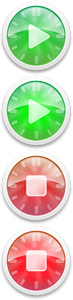
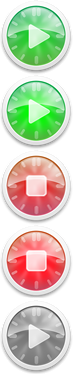
Fixed initial table and disabled columns are still marked after reload of table in export extension. Buzzer only starts recording when a project and an event is selected.

diff --git a/core/js/main.js b/core/js/main.js
@@ -397,17 +397,26 @@ function buzzer_preselect(subject,id,name,kndID,kndName) {
         case "pct":
             selected_knd = kndID;
             selected_pct = id;
+            $.post("processor.php", { axAction: "saveBuzzerPreselection", project:id});
             $("#sel_knd").html(kndName);
             $("#sel_pct").html(name);
             $("#sel_knd").removeClass("none");
         break;
         case "evt":
             selected_evt = id;
+            $.post("processor.php", { axAction: "saveBuzzerPreselection", event:id});
             $("#sel_evt").html(name);
         break;
     }
     $('#'+subject+'>table>tbody>tr>td>a.preselect>img').attr('src','../skins/'+skin+'/grfx/preselect_off.png');
     $('#'+subject+'>table>tbody>tr>td>a.preselect#ps'+id+'>img').attr('src','../skins/'+skin+'/grfx/preselect_on.png');
+    
+    if (selected_knd && selected_pct && selected_evt) {
+      $('#buzzer').click(function(){
+        buzzer();
+      });
+      $('#buzzer').removeClass('disabled');
+    }
 }
 
 // ----------------------------------------------------------------------------------------

diff --git a/core/skins/standard/buzzer.css b/core/skins/standard/buzzer.css
@@ -7,7 +7,7 @@
     overflow: hidden;
 }
 
-#buzzer a {
+#buzzer div {
     display: block;
     background: url(grfx/g3_buzzer.png) no-repeat 0 0px;
     width: 75px;
@@ -15,16 +15,23 @@
     text-indent: -1000px;
 }
 
-#buzzer a:hover {    
+#buzzer div:hover {    
+    cursor: pointer;
     background: url(grfx/g3_buzzer.png) no-repeat 0 -75px;
 }
 
-#buzzer.act a {
+#buzzer.act div {
     background: url(grfx/g3_buzzer.png) no-repeat 0 -150px;
 }
 
-#buzzer.act a:hover {
+#buzzer.act div:hover {
+    cursor: pointer;
     background: url(grfx/g3_buzzer.png) no-repeat 0 -225px;
+}
+
+#buzzer.disabled div, #buzzer.disabled div:hover {
+    cursor: auto;
+    background: url(grfx/g3_buzzer.png) no-repeat 0 -300px;
 }
 
 #noclick {

diff --git a/core/js/init.js b/core/js/init.js
@@ -77,10 +77,14 @@ $(document).ready(function() {
     $('#main_prefs_button').click(function(){
         floaterShow("floaters.php","prefs",0,0,450,300);
     });
+
     
-    $('#buzzer').click(function(){
+    if (selected_knd && selected_pct && selected_evt) {
+      $('#buzzer').click(function(){
         buzzer();
-    });
+      });
+      $('#buzzer').removeClass('disabled');
+    }
  
     n_uhr();
     

diff --git a/core/extensions/ki_export/init.php b/core/extensions/ki_export/init.php
@@ -32,7 +32,10 @@ $tpl->display('panel.tpl');
 // ==========================
 $total = intervallApos(get_zef_time($in,$out,null,array($kga['customer']['knd_ID']),null));
 
-$arr_zef = xp_get_arr($in,$out,null,array($kga['customer']['knd_ID']),null);
+if (isset($kga['customer']))
+  $arr_zef = xp_get_arr($in,$out,null,array($kga['customer']['knd_ID']));
+else
+  $arr_zef = xp_get_arr($in,$out,array($kga['usr']['usr_ID']));
 
 if (count($arr_zef)>0) {
     $tpl->assign('arr_data', $arr_zef);
@@ -41,25 +44,36 @@ if (count($arr_zef)>0) {
 }
 $tpl->assign('total', $total);
 
-$ann = xp_get_arr_usr($in,$out,null,array($kga['customer']['knd_ID']));
+if (isset($kga['customer']))
+  $ann = xp_get_arr_usr($in,$out,null,array($kga['customer']['knd_ID']));
+else
+  $ann = xp_get_arr_knd($in,$out,array($kga['usr']['usr_ID']));
 $ann_new = intervallApos($ann);
 $tpl->assign('usr_ann',$ann_new);
 
-$ann = xp_get_arr_knd($in,$out,null,array($kga['customer']['knd_ID']));
+if (isset($kga['customer']))
+  $ann = xp_get_arr_knd($in,$out,null,array($kga['customer']['knd_ID']));
+else
+  $ann = xp_get_arr_knd($in,$out,array($kga['usr']['usr_ID']));
 $ann_new = intervallApos($ann);
 $tpl->assign('knd_ann',$ann_new);
 
-$ann = xp_get_arr_pct($in,$out,null,array($kga['customer']['knd_ID']));
+if (isset($kga['customer']))
+  $ann = xp_get_arr_pct($in,$out,null,array($kga['customer']['knd_ID']));
+else
+  $ann = xp_get_arr_pct($in,$out,array($kga['usr']['usr_ID']));
 $ann_new = intervallApos($ann);
 $tpl->assign('pct_ann',$ann_new);
 
-$ann = xp_get_arr_evt($in,$out,null,array($kga['customer']['knd_ID']));
+if (isset($kga['customer']))
+  $ann = xp_get_arr_evt($in,$out,null,array($kga['customer']['knd_ID']));
+else
+  $ann = xp_get_arr_evt($in,$out,array($kga['usr']['usr_ID']));
 $ann_new = intervallApos($ann);
 $tpl->assign('evt_ann',$ann_new);
 
-$disabled_columns = xp_get_disabled_headers($kga['usr']['usr_ID']);
-
-$tpl->assign('disabled_columns',$disabled_columns);
+if (isset($kga['usr']))
+  $tpl->assign('disabled_columns',xp_get_disabled_headers($kga['usr']['usr_ID']));
 
 $tpl->assign('table_display', $tpl->fetch("table.tpl"));
 

diff --git a/core/core/kimai.php b/core/core/kimai.php
@@ -271,29 +271,26 @@ else
 
 $tpl->assign('lang_checkUsername', $kga['lang']['checkUsername']);
 
-if (isset($kga['customer']))
-  $last_pct = null;
-else {
-  $lastZefRecord = zef_get_data(0);
-  logfile($lastZefRecord['zef_pctID']);
-  $last_pct = pct_get_data($lastZefRecord['zef_pctID']);
-}
 
-if ($last_pct) {
-    $tpl->assign('pct_data', $last_pct);
-    $tpl->assign('knd_data', knd_get_data($last_pct['pct_kndID']));
-    $tpl->assign('evt_data', evt_get_data($kga['conf']['lastEvent']));
-} else {
-    $knd_data['knd_ID'] = 1;
-    $pct_data['pct_ID'] = 1;
-    $evt_data['evt_ID'] = 1;
-    $knd_data['knd_name'] = $kga['lang']['testKND'];
-    $pct_data['pct_name'] = $kga['lang']['testPCT'];
-    $evt_data['evt_name'] = $kga['lang']['testEVT'];
-    $tpl->assign('knd_data', $knd_data);
-    $tpl->assign('pct_data', $pct_data);
-    $tpl->assign('evt_data', $evt_data);
+$knd_data = array('knd_ID'=>false,'knd_name'=>'');
+$pct_data = array('pct_ID'=>false,'pct_name'=>'');
+$evt_data = array('evt_ID'=>false,'evt_name'=>'');
+
+if (!isset($kga['customer'])) {
+  //$lastZefRecord = zef_get_data(false);
+  $last_pct = pct_get_data($kga['conf']['lastProject']);
+  $last_evt = evt_get_data($kga['conf']['lastEvent']);
+  if (!$last_pct['pct_trash']) {
+    $pct_data = $last_pct;
+    $knd_data = knd_get_data($last_pct['pct_kndID']);
+  }
+  if (!$last_evt['evt_trash'])
+    $evt_data = $last_evt;    
 }
+$tpl->assign('knd_data', $knd_data);
+$tpl->assign('pct_data', $pct_data);
+$tpl->assign('evt_data', $evt_data);
+
 
 // =========================================
 // = INCLUDE EXTENSION PHP FILE            =

diff --git a/core/includes/db_layer_mysql.php b/core/includes/db_layer_mysql.php
@@ -1316,6 +1316,8 @@ function usr_edit($usr_id, $data) {
     $values ['usr_trash']         = MySQL::SQLValue($new_array ['usr_trash']        , MySQL::SQLVALUE_NUMBER  );
     $values ['usr_active']        = MySQL::SQLValue($new_array ['usr_active']       , MySQL::SQLVALUE_NUMBER  );
     $values ['noFading']          = MySQL::SQLValue($new_array ['noFading']         , MySQL::SQLVALUE_NUMBER  );
+    $values ['lastProject']       = MySQL::SQLValue($new_array ['lastProject']      , MySQL::SQLVALUE_NUMBER  );
+    $values ['lastEvent']         = MySQL::SQLValue($new_array ['lastEvent']        , MySQL::SQLVALUE_NUMBER  );
 
     $filter ['usr_ID']            = MySQL::SQLValue($usr_id, MySQL::SQLVALUE_NUMBER);
     

diff --git a/core/core/processor.php b/core/core/processor.php
@@ -35,6 +35,21 @@ switch ($axAction) {
     break;
 
 
+
+
+    case 'saveBuzzerPreselection':
+      if (!isset($kga['usr'])) return;
+
+      $data= array();
+      if (isset($_REQUEST['project']))
+        $data['lastProject'] = $_REQUEST['project'];
+      if (isset($_REQUEST['event']))
+        $data['lastEvent']   = $_REQUEST['event'];
+
+      usr_edit($kga['usr']['usr_ID'],$data);
+    break;
+
+
     // ================================
     // = write user preferences to DB =
     // ================================

diff --git a/core/includes/db_layer_pdo.php b/core/includes/db_layer_pdo.php
@@ -1167,7 +1167,9 @@ function usr_edit($usr_id, $data) {
     pct_comment_flag = ?,
     showIDs = ?,
     lang = ? ,
-    noFading = ?
+    noFading = ?, 
+    lastProject = ?,
+    lastEvent = ?
     WHERE usr_id = ?;");
     
     $result = $pdo_query->execute(array(
@@ -1189,6 +1191,8 @@ function usr_edit($usr_id, $data) {
     $new_array['showIDs'],
     $new_array['lang'],
     $new_array['noFading'],
+    $new_array['lastProject'],
+    $new_array['lastEvent']
     $usr_id
     ));
     

diff --git a/core/extensions/ki_export/processor.php b/core/extensions/ki_export/processor.php
@@ -151,6 +151,8 @@ switch ($axAction) {
         $tpl->assign('custom_timeformat',$timeformat);
         $tpl->assign('custom_dateformat',$dateformat);
         $tpl->assign('custom_filter',$filter);
+        if (isset($kga['usr']))
+          $tpl->assign('disabled_columns',xp_get_disabled_headers($kga['usr']['usr_ID']));
         $tpl->display("table.tpl");
     break;
 

diff --git a/core/includes/version.php b/core/includes/version.php
@@ -1,7 +1,7 @@
 <?php
 $kga['version']  = "0.9.0";
 // $kga['revision'] is the sourceforge SVN revision.
-$kga['revision'] = '0242';
+$kga['revision'] = '0243';
 // when Kimai moved from syncom to sourceforge we had r866 ...
 $kga['revision'] = (int)$kga['revision'] += 866;
 $kga['status']   = "RC1 BETA"; // leave blank if stable ...
